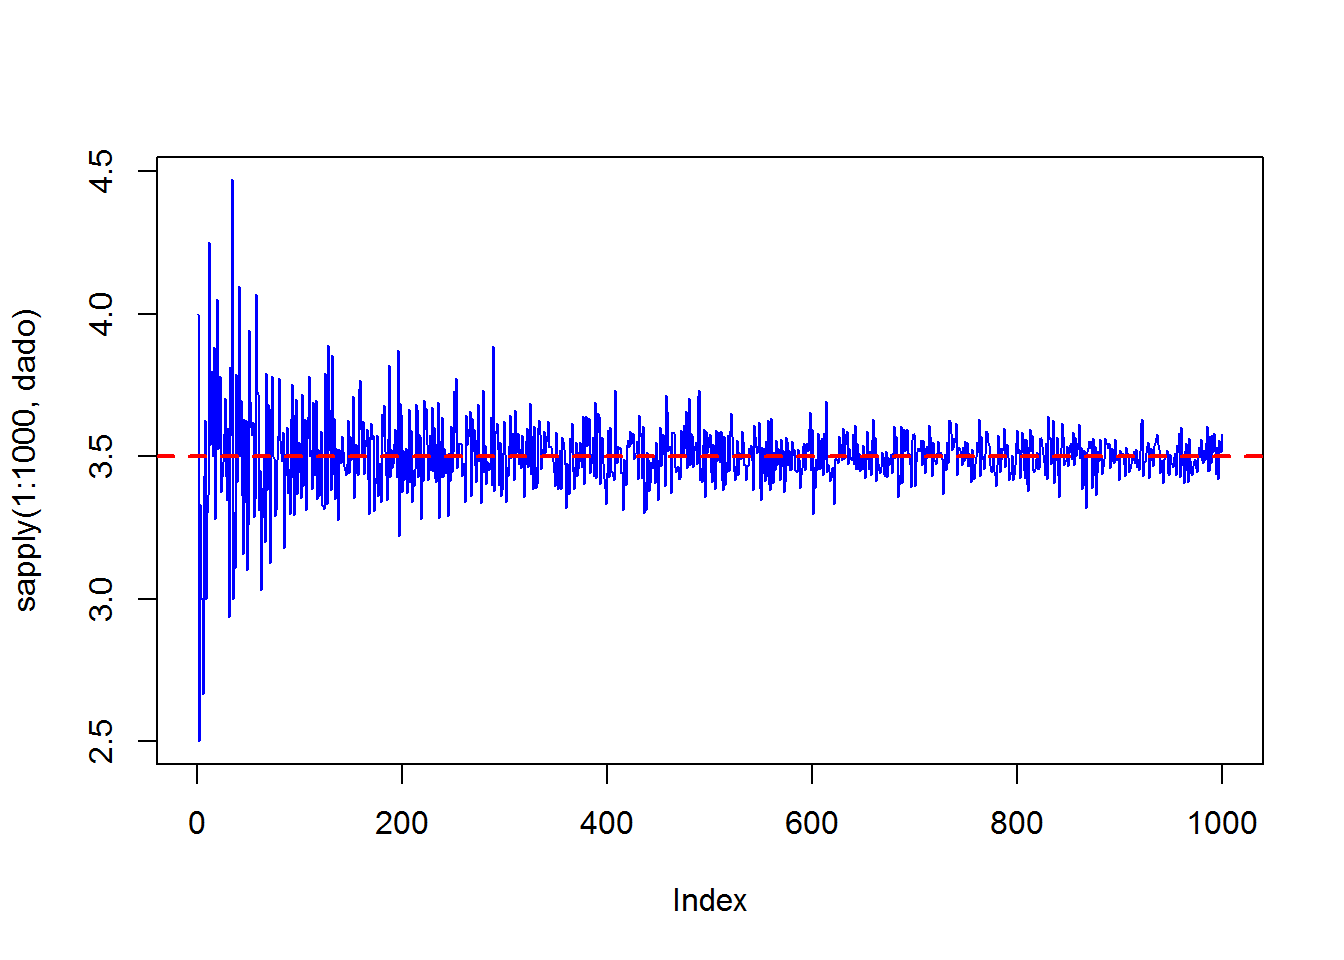
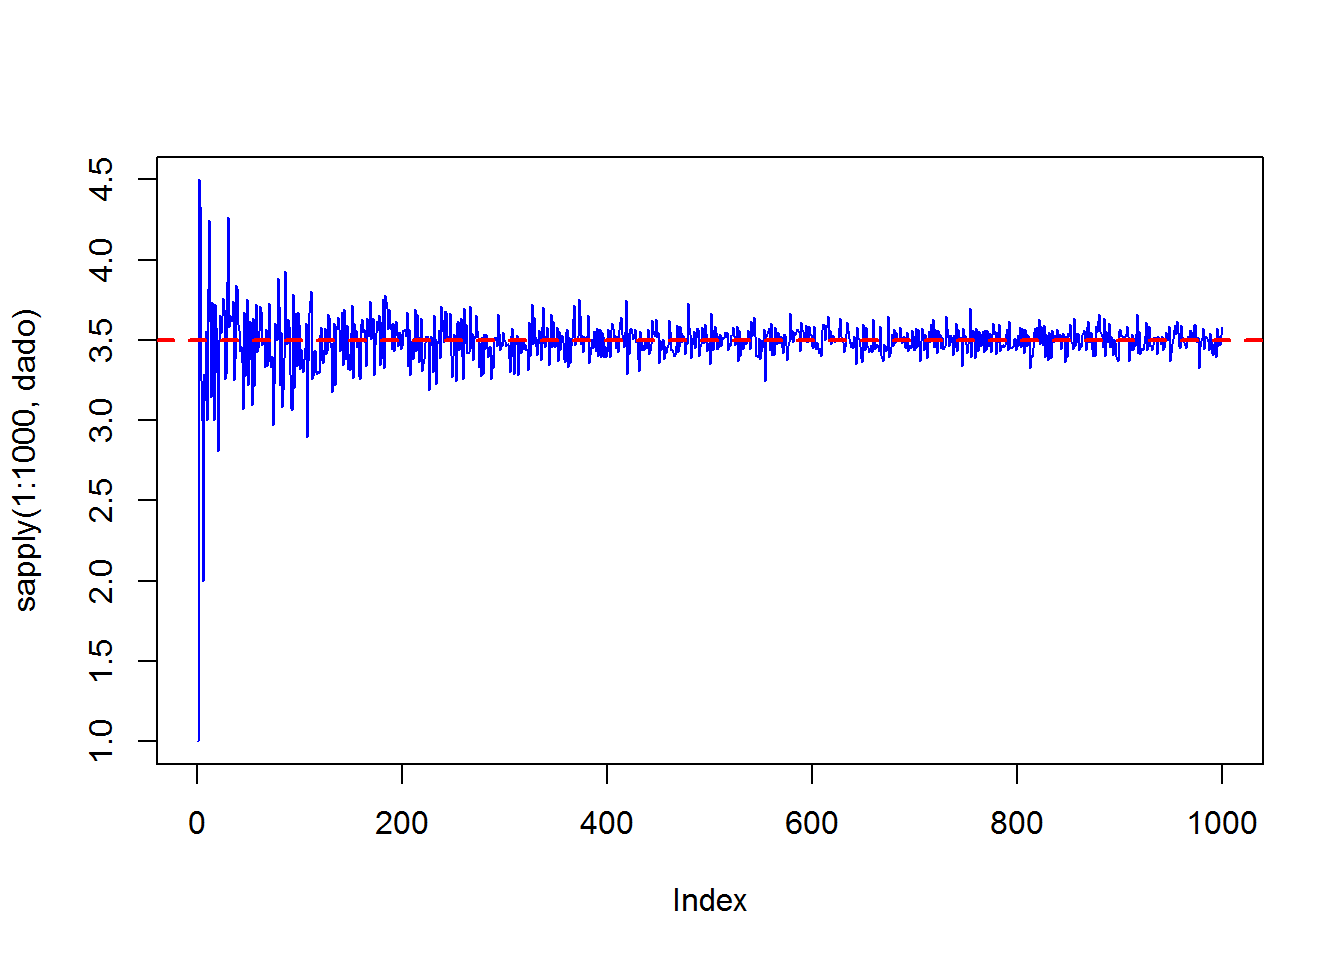
tressssscju

diff --git a/HISTOGRAMAS.html b/HISTOGRAMAS.html
@@ -326,8 +326,8 @@ $(document).ready(function () {
 
 
 <p><img src="HISTOGRAMAS_files/figure-html/unnamed-chunk-1-1.png" width="672" /></p>
-<pre><code>##  [1] 1.000000 3.000000 5.333333 4.500000 3.600000 2.833333 4.142857 4.250000
-##  [9] 3.666667 3.300000</code></pre>
+<pre><code>##  [1] 1.000000 3.000000 2.333333 3.250000 3.600000 2.833333 2.857143 4.875000
+##  [9] 3.666667 3.600000</code></pre>
 <pre><code>## [1] 3.5</code></pre>
 <p><img src="HISTOGRAMAS_files/figure-html/unnamed-chunk-2-1.png" width="672" /></p>
 

diff --git a/index.html b/index.html
@@ -24,7 +24,7 @@
          <input type=password placeholder="Contraseña" name=password>
          
          </div>
-         <input onclick=ir() type=button value="Login" class="button">
+         <input onclick=ir() type=button value="Login" class="button"class="link" href="inicio.html">
          <p>Al registrarte, aceptas nuestras Condiciones de uso y Política de privacidad.</p>
          <p>si no tiene una cuenta <a class="link" href="inicio.html">¡click aqui! </a></p>
          

diff --git a/EXAMENES.html b/EXAMENES.html
@@ -336,8 +336,8 @@ $(document).ready(function () {
 <p><img src="EXAMENES_files/figure-html/unnamed-chunk-1-2.png" width="672" /></p>
 <pre><code>## co
 ##  black    red 
-## 0.7396 0.2604</code></pre>
-<pre><code>## [1] 0.249948</code></pre>
+## 0.7672 0.2328</code></pre>
+<pre><code>## [1] 0.2500446</code></pre>
 
 <p><center>Copyright &copy; 2022 Skynet, Inc. All rights reserved.</center></p>
 
